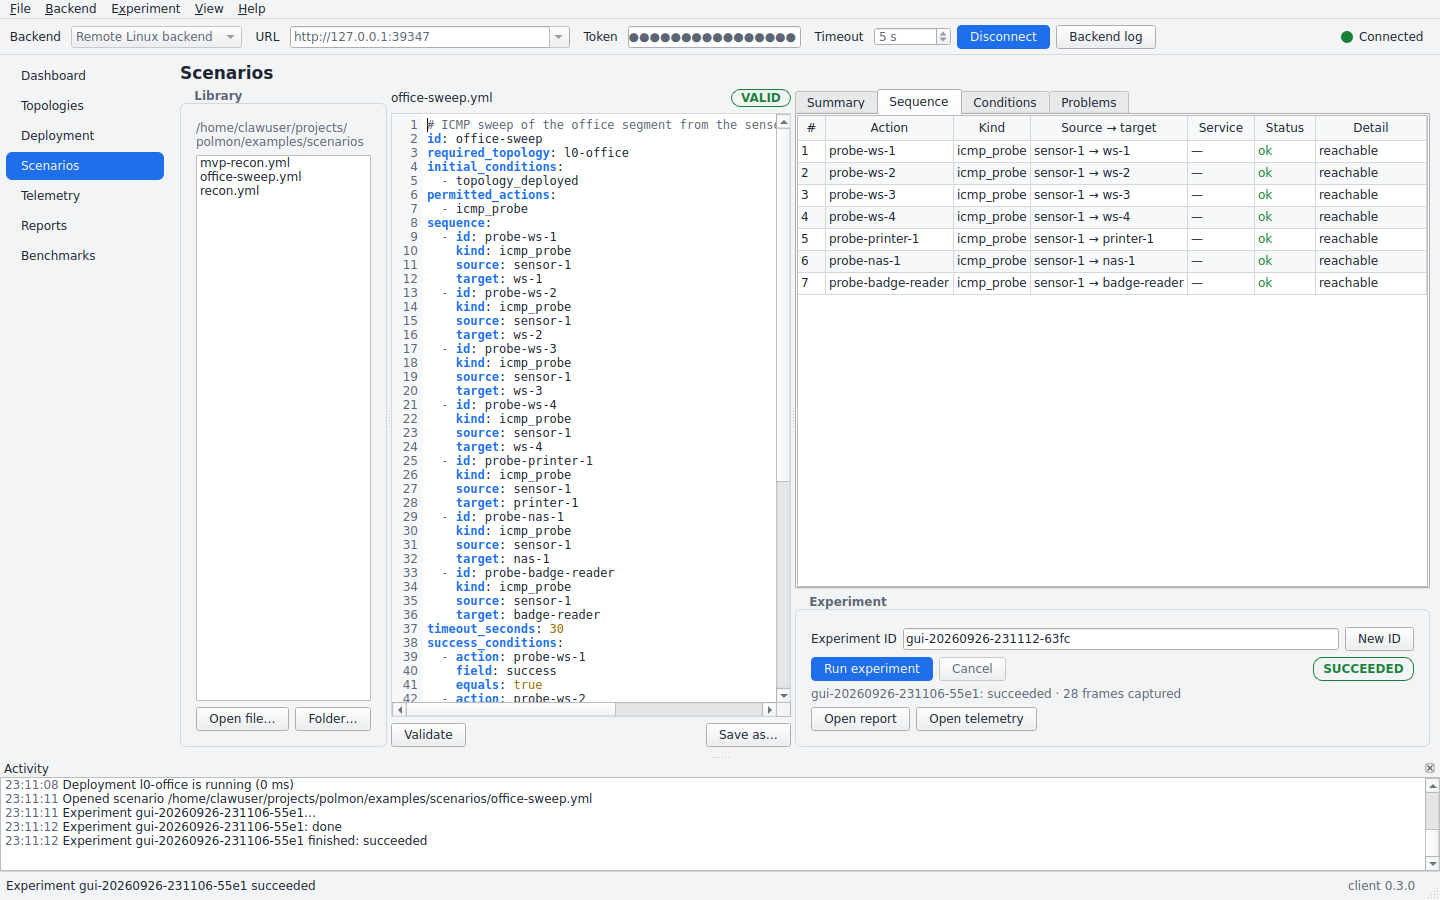
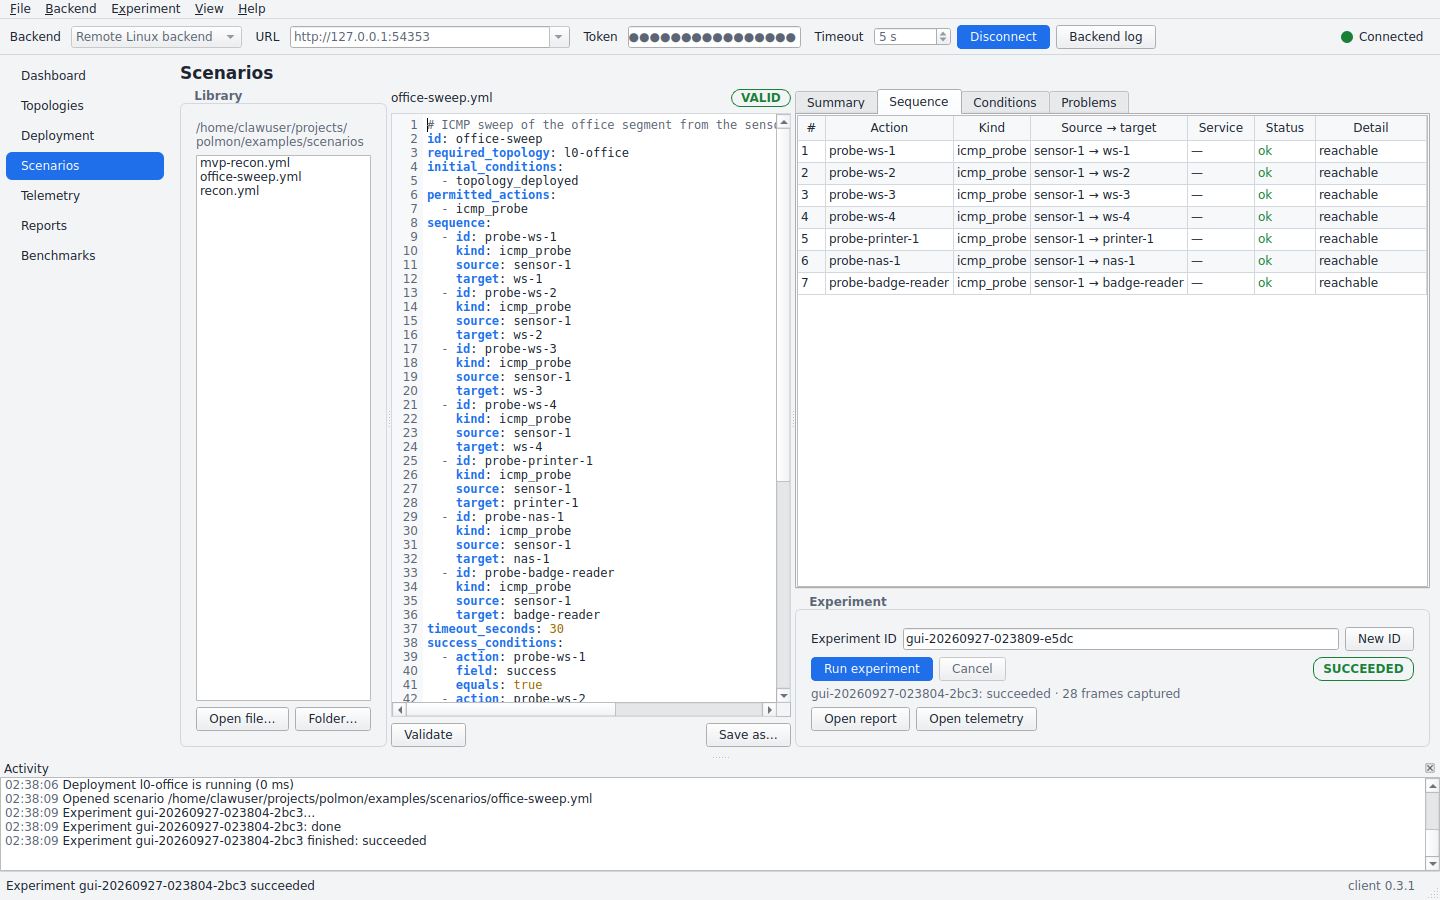
docs(ui): render screenshots exactly as a real launch does
scripts/ui_screenshots.py re-applied the theme after building the window, which re-polished
every widget and hid the launch-only overlapping-sidebar bug fixed in v0.3.0. It now relies on
the theme create_application applies before the window exists, like run_gui. The 13 screenshots
are regenerated from the running v0.3.1 client and backend.

diff --git a/scripts/ui_screenshots.py b/scripts/ui_screenshots.py
@@ -71,8 +71,10 @@ def main() -> int:
     settings = QSettings(str(workdir / "client.ini"), QSettings.Format.IniFormat)
     window = MainWindow(settings)
     window.resize(1440, 900)
+    # No set_theme() here: create_application applied the theme before the window existed,
+    # exactly as a real launch does. Re-applying it re-polished every widget and once hid a
+    # launch-only layout bug (overlapping sidebar rows) from these screenshots.
     window.show()
-    window.set_theme("light")
     shots: list[tuple[str, str]] = []
 
     def grab(name: str, caption: str) -> None:

diff --git a/docs/ui/SCREENSHOTS.md b/docs/ui/SCREENSHOTS.md
@@ -5,10 +5,10 @@ a real `polmon-backend` process with an API token, the unmodified main window, t
 `l0-office` example topology and the `office-sweep` scenario. CI regenerates the same
 set as the `ui-screenshots` artifact.
 
-- Generated: 2026-09-26 21:11 UTC
-- polmon 0.3.0, Qt 6.11.2, PySide6 6.11.2
+- Generated: 2026-09-27 00:38 UTC
+- polmon 0.3.1, Qt 6.11.2, PySide6 6.11.2
 - Platform: `offscreen` on Linux 6.8.0-138-generic, window 1440×900
-- Experiment: `gui-20260926-231106-55e1`
+- Experiment: `gui-20260927-023804-2bc3`
 
 ## local-backend
 
@@ -52,6 +52,12 @@ The human-readable Markdown report as generated by the backend.
 
 ![report-markdown](report-markdown.png)
 
+## benchmarks
+
+Bounded benchmark job with explicit limits and a retained result.
+
+![benchmarks](benchmarks.png)
+
 ## dashboard
 
 Dashboard: backend identity, live counters with sparklines, admission limits.
@@ -81,7 +87,3 @@ Dark theme: dashboard.
 Dark theme: scenarios.
 
 ![scenarios-dark](scenarios-dark.png)
-
-## Notes
-
-- benchmark page not rendered (Linux-only measurement or --no-benchmark)
